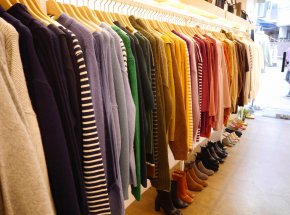
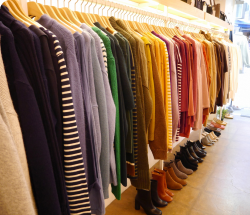
update card index 2

diff --git a/style.css b/style.css
@@ -406,11 +406,12 @@ body .header .logo {
     margin-left: -12px;
     margin-right: -15px;
     width: 290px;
-    height: 415px;
+    height: 442px;
     box-shadow: 0 10px 25px rgba(0,0,0,0.08);
     /* box-shadow: 0px 170px 68px rgba(0, 0, 0, 0.01), 0px 96px 57px rgba(0, 0, 0, 0.05), 0px 43px 43px rgba(0, 0, 0, 0.09), 0px 11px 23px rgba(0, 0, 0, 0.1), 0px 0px 0px rgba(0, 0, 0, 0.1); */
 }
-.card img {
+.card a img {
+    width: 283px;
     border-top-left-radius: 15px;
     border-top-right-radius: 15px;
 }

diff --git a/style2.css b/style2.css
@@ -571,7 +571,7 @@ body.dark-mode .btn-banner2:hover {
     margin-left: -12px;
     margin-right: -15px;
     width: 290px;
-    height: 415px;
+    height: 442px;
     box-shadow: 0 10px 25px rgba(0,0,0,0.08);
 }
 
@@ -579,7 +579,8 @@ body.dark-mode .card {
     background-color: #181818;
 }
 
-.card img {
+.card a img {
+    width: 283px;
     border-top-left-radius: 15px;
     border-top-right-radius: 15px;
 }
